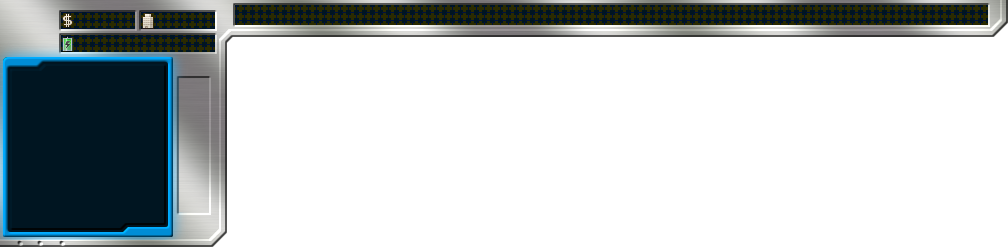
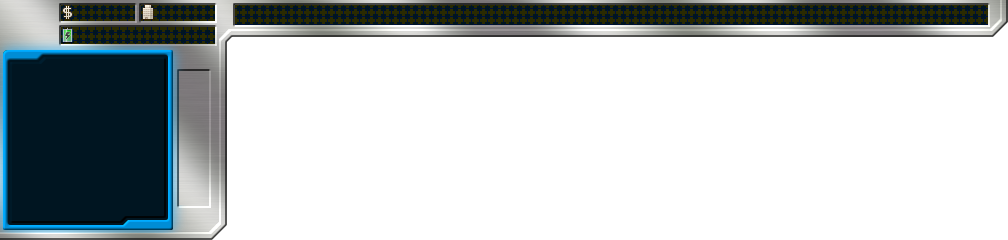
New side cockpit

diff --git a/controltheland/src/main/java/com/btxtech/game/jsre/client/cockpit/SideCockpit.java b/controltheland/src/main/java/com/btxtech/game/jsre/client/cockpit/SideCockpit.java
@@ -28,7 +28,7 @@ public class SideCockpit {
     private static final String TEXT_COLOR = "#C7C4BB";
     // Background Panels
     private static final int MAIN_PANEL_W = 227;
-    private static final int MAIN_PANEL_H = 246;
+    private static final int MAIN_PANEL_H = 240;
     private static final int MISSION_PANEL_X = 218;
     private static final int MISSION_PANEL_W = 789;
     private static final int MISSION_PANEL_H = 42;
@@ -37,28 +37,28 @@ public class SideCockpit {
     private static final int LEVEL_Y = 5;
     // Money
     private static final int MONEY_X = 75;
-    private static final int MONEY_Y = 13;
+    private static final int MONEY_Y = 4;
     // Item limit
     private static final int ITEM_LIMIT_X = 157;
-    private static final int ITEM_LIMIT_Y = 13;
+    private static final int ITEM_LIMIT_Y = 4;
     // Mission
     private static final int MISSION_X = 20;
-    private static final int MISSION_Y = 7;
+    private static final int MISSION_Y = 5;
     // Energy
-    private static final int ENERGY_X = 118;
-    private static final int ENERGY_Y = 40;
+    private static final int ENERGY_X = 119;
+    private static final int ENERGY_Y = 31;
     private static final int ENERGY_W = 95;
     private static final int ENERGY_H = 7;
     private static final int ENERGY_TEXT_X = 75;
-    private static final int ENERGY_TEXT_Y = 36;
+    private static final int ENERGY_TEXT_Y = 27;
     // Radar
-    private static final int RADAR_X = 10;
-    private static final int RADAR_Y = 70;
+    private static final int RADAR_X = 13;
+    private static final int RADAR_Y = 65;
     private static final int RADAR_W = 150;
     private static final int RADAR_H = 150;
     // Buttons
     private static final int BNT_X = 181;
-    private static final int BNT_Y = 80;
+    private static final int BNT_Y = 73;
     private static final int BNT_Y_SPACE = 35;
     private static final int BNT_SCROLL_X = BNT_X;
     private static final int BNT_SCROLL_Y = BNT_Y;
@@ -70,7 +70,7 @@ public class SideCockpit {
     private static final int BNT_STAT_Y = BNT_MUTE_Y + BNT_Y_SPACE;
     // Debug
     private static final int DEBUG_X = 10;
-    private static final int DEBUG_Y = 220;
+    private static final int DEBUG_Y = 213;
 
     private AbsolutePanel mainPanel;
     private AbsolutePanel missionPanel;
